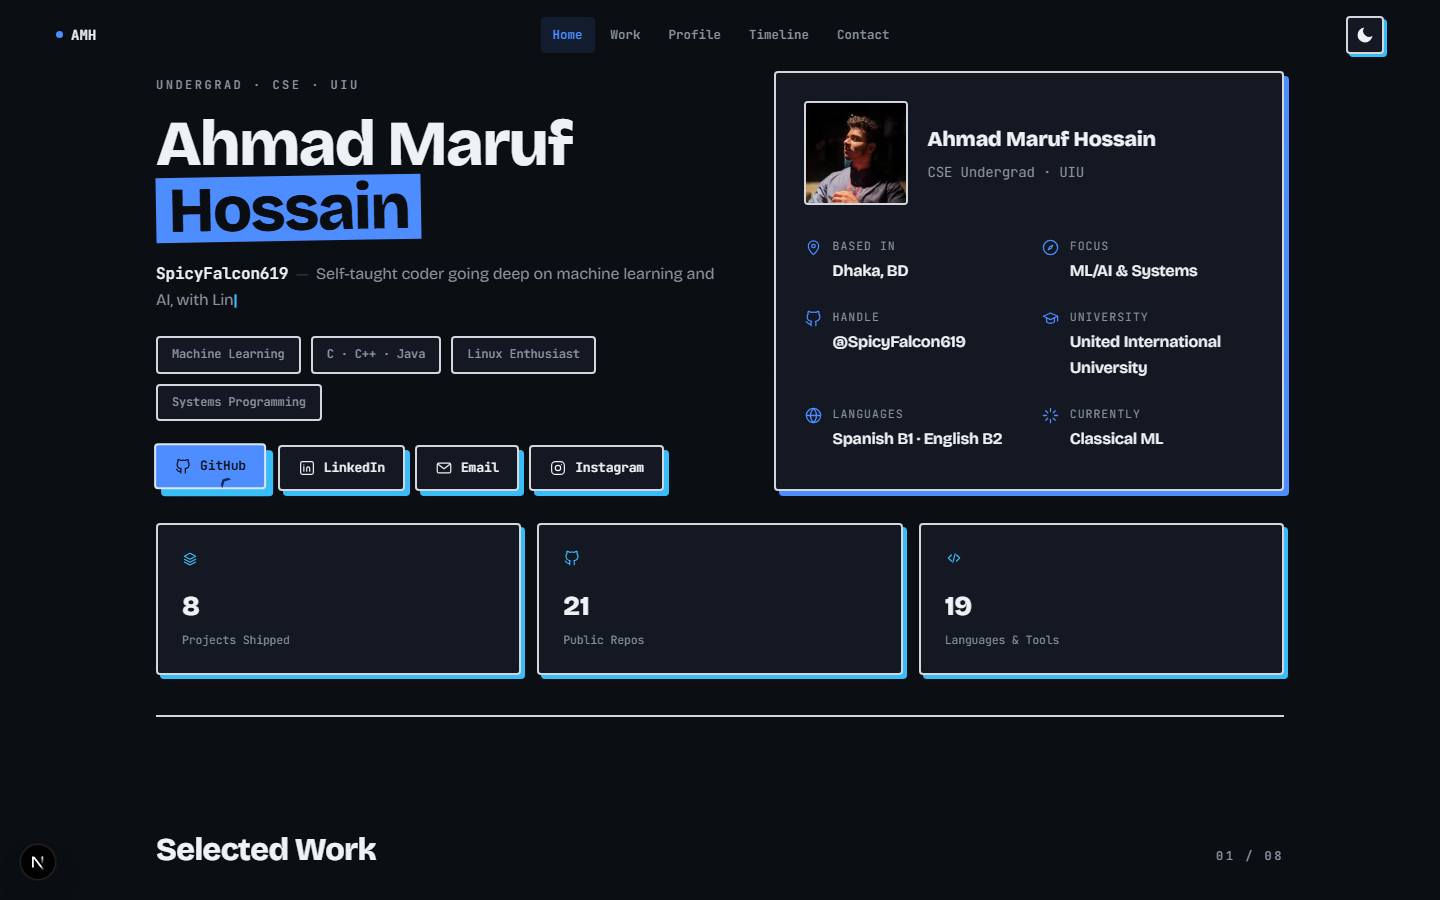
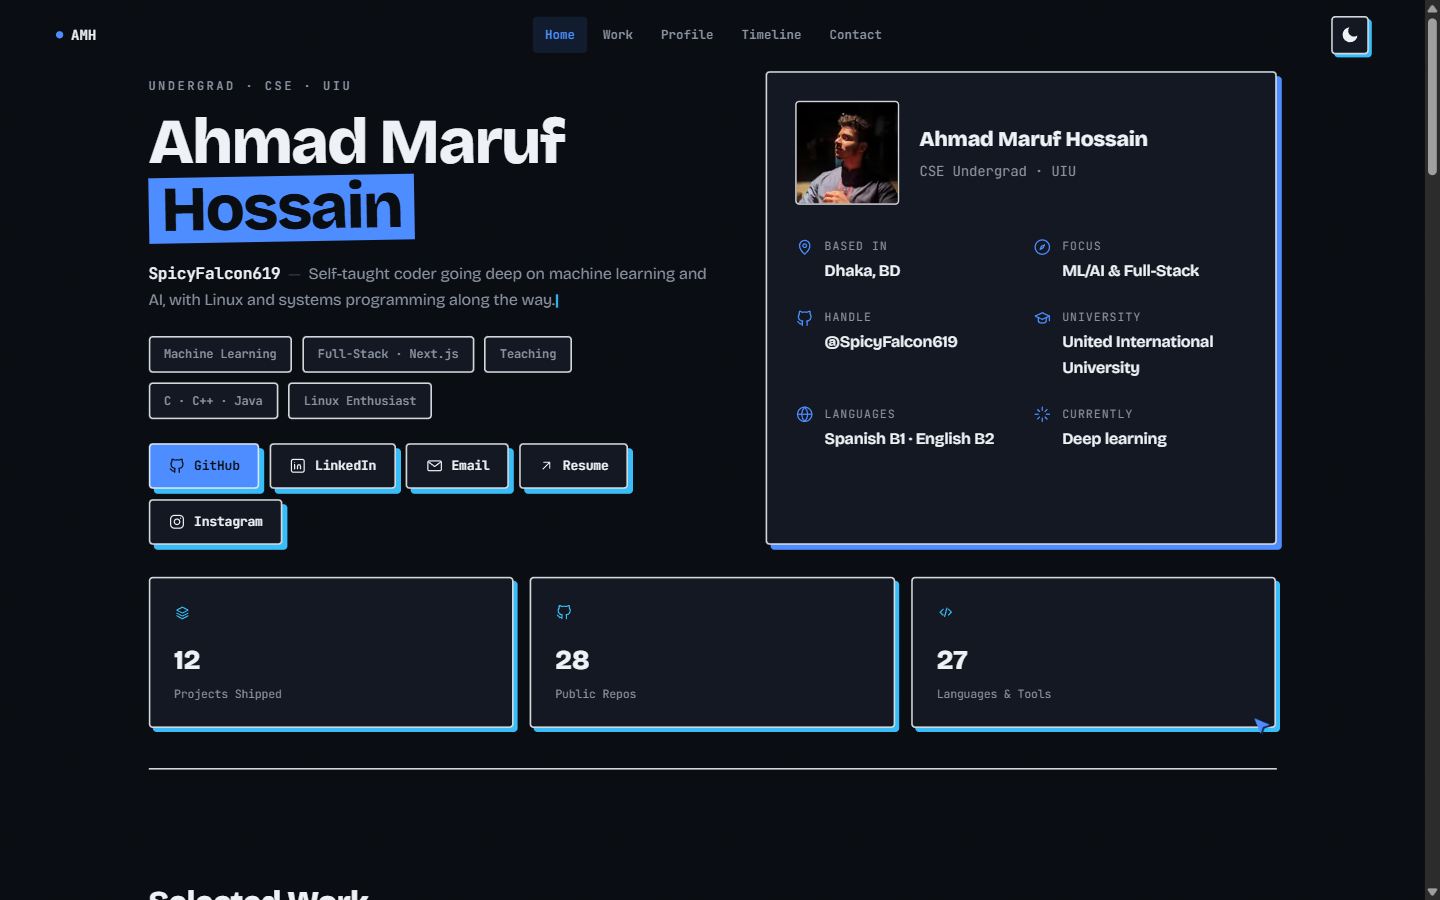
Put the CV in the top bar, mobile menu and contact section; rewrite the README; add the MIT licence

diff --git a/src/app/globals.css b/src/app/globals.css
@@ -211,6 +211,15 @@ section:not(:first-of-type)::before {
 @media (max-width: 760px) { .topbar-nav { display: none; } }
 
 .topbar-right { display: flex; align-items: center; gap: 10px; }
+.topbar-resume {
+  display: inline-flex; align-items: center; gap: 6px; text-decoration: none;
+  font-family: var(--font-mono); font-size: 12.5px; font-weight: 700; color: var(--fg);
+  padding: 7px 12px; border: 2px solid var(--fg); border-radius: var(--radius);
+  box-shadow: 3px 3px 0 var(--accent); transition: transform 0.15s ease, box-shadow 0.15s ease;
+}
+.topbar-resume:hover { transform: translate(-1px, -1px); box-shadow: 4px 4px 0 var(--accent); }
+.topbar-resume:active { transform: translate(2px, 2px); box-shadow: 1px 1px 0 var(--accent); }
+@media (max-width: 760px) { .topbar-resume { display: none; } }
 
 .topbar-burger {
   display: none;
@@ -240,6 +249,7 @@ section:not(:first-of-type)::before {
   color: var(--muted); padding: 12px 4px; border-bottom: 1px solid var(--glass-border);
 }
 .topbar-mobile-link:last-child { border-bottom: none; }
+a.topbar-mobile-link { color: var(--fg); text-decoration: none; }
 .topbar-mobile-link.active { color: var(--accent); }
 
 .theme-toggle-btn {

diff --git a/src/components/TopBar.tsx b/src/components/TopBar.tsx
@@ -2,7 +2,7 @@
 
 import { useEffect, useState } from 'react';
 import ThemeToggle from './ThemeToggle';
-import { MenuIcon, CloseIcon } from './Icons';
+import { MenuIcon, CloseIcon, ArrowUpRightIcon } from './Icons';
 
 const SECTIONS = [
   { id: 'hero', label: 'Home' },
@@ -66,6 +66,9 @@ export default function TopBar() {
       </nav>
 
       <div className="topbar-right">
+        <a className="topbar-resume" href="/resume.pdf" target="_blank" rel="noreferrer">
+          Resume <ArrowUpRightIcon size={13} />
+        </a>
         <ThemeToggle />
         <button
           className="topbar-burger"
@@ -88,6 +91,9 @@ export default function TopBar() {
               {s.label}
             </button>
           ))}
+          <a className="topbar-mobile-link" href="/resume.pdf" target="_blank" rel="noreferrer">
+            Resume (PDF) &#8599;
+          </a>
         </nav>
       )}
     </header>

diff --git a/src/components/ContactCTA.tsx b/src/components/ContactCTA.tsx
@@ -2,7 +2,7 @@
 
 import ScrollReveal from './ScrollReveal';
 import MagneticButton from './MagneticButton';
-import { GitHubIcon, LinkedInIcon, InstagramIcon, MailIcon } from './Icons';
+import { GitHubIcon, LinkedInIcon, InstagramIcon, MailIcon, ArrowUpRightIcon } from './Icons';
 
 export default function ContactCTA() {
   return (
@@ -18,6 +18,11 @@ export default function ContactCTA() {
           <MagneticButton>
             <a className="btn-solid" href="mailto:a.marufhossain619@gmail.com">
               <MailIcon /> a.marufhossain619@gmail.com
+            </a>
+          </MagneticButton>
+          <MagneticButton>
+            <a className="btn-outline" href="/resume.pdf" target="_blank" rel="noreferrer">
+              <ArrowUpRightIcon /> Download my CV (PDF)
             </a>
           </MagneticButton>
           <div className="contact-icon-row">

diff --git a/README.md b/README.md
@@ -1,94 +1,79 @@
-# Ahmad Maruf Hossain — Portfolio
+# Ahmad Maruf Hossain: Portfolio
 
-Personal portfolio for **SpicyFalcon619** — a CSE undergrad at United International University going deep on machine learning and AI, with systems programming and Linux along the way. Built as a neo-brutalist single-page site: solid panels, hard offset shadows, sharp corners, real GitHub data — no stock templates, no placeholder content.
+The personal portfolio of **Ahmad Maruf Hossain (SpicyFalcon619)**: a CSE undergraduate at United International University, Undergraduate Assistant for the Database Management System Lab, and builder of Nestly, the Field Guides and Drawer 378.
 
-**Live:** [spicyfalcon-portfolio.vercel.app](https://spicyfalcon-portfolio.vercel.app)
+**[spicyfalcon-portfolio.vercel.app](https://spicyfalcon-portfolio.vercel.app)** · [Résumé (PDF)](https://spicyfalcon-portfolio.vercel.app/resume.pdf) · [Desktop-style version](https://spicyfalcon-os.vercel.app)
 
-![Preview](public/assets/preview.png)
+![The portfolio's hero: name, profile card, live GitHub stats and links](public/assets/preview.png)
 
----
+## What's on the site
 
-## Tech Stack
+| Section | Contents |
+|---|---|
+| **Home** | Name, focus, links (GitHub, LinkedIn, email, résumé) and a profile card with live GitHub numbers |
+| **Selected Work** | Twelve projects in an index: pick one to read what it does, its stack, and its live link or repository |
+| **Profile** | About, highlights, the full tech stack, and a GitHub contribution heatmap built from real data |
+| **Timeline** | Milestones: the UGA role, competitions, education |
+| **Contact** | Email, a contact form, social links and the CV download |
 
-* **Framework**: Next.js 15 (App Router), React 19, TypeScript
-* **Styling**: Plain CSS with custom properties for theming — no utility framework
-* **Animation**: Framer Motion, `react-type-animation`
-* **Theming**: `next-themes` (dark/light, class-based)
-* **Analytics**: Vercel Analytics + Speed Insights
-* **Deployment**: Vercel
+## Design decisions
 
-## What Makes This Different
+- **Neo-brutalist, not templated.** Solid panels, 2 px borders, hard offset shadows and sharp corners. Glassmorphism, bento grids and particle backgrounds were tried and dropped because they looked generic.
+- **Real data only.** [`src/lib/github.ts`](src/lib/github.ts) reads public repository stats from the GitHub REST API and the contribution calendar from GitHub's own page, then draws the heatmap as a plain CSS grid, refreshed hourly. Every project links to a real repository or live deployment.
+- **The CV is one click away everywhere.** A Résumé button in the top bar, in the mobile menu, in the hero and in Contact. The public PDF leaves out the phone number.
+- **Built for every screen.** The top bar folds into a slide-down menu under 760 px; the custom cursor switches itself off on touch devices.
+- **Light and dark themes**, class-based, with no flash on load.
 
-* **Real GitHub data, not placeholders** — [`src/lib/github.ts`](src/lib/github.ts) fetches live public-repo stats from the GitHub REST API and scrapes the actual contribution calendar HTML from `github.com/users/{user}/contributions`, then renders it as a self-owned CSS grid (no third-party chart embeds).
-* **8 real, linked projects** — every entry in Selected Work links to an actual repo or live deployment, not a tutorial clone.
-* **Pure neo-brutalism** — solid panel backgrounds, 2px borders, hard (no-blur) offset shadows, minimal border-radius, and project rows styled as literal pressable buttons.
-* **Minimal custom cursor** — a small brutalist arrow with a hard offset shadow replaces the native pointer everywhere, including over text; automatically disabled on touch devices.
-* **No glassmorphism, no generic bento grids, no background particle effects** — deliberately avoided after early iterations read as generic/AI-templated.
-* **Mobile-first nav** — the sticky top bar collapses into a slide-down menu below 760px instead of just disappearing.
+## Tech stack
 
-## Project Structure
+| | |
+|---|---|
+| Framework | Next.js 15 (App Router), React 19, TypeScript |
+| Styling | Plain CSS with custom properties; no utility framework |
+| Motion | Framer Motion, `react-type-animation` |
+| Fonts | Bricolage Grotesque and JetBrains Mono via `next/font` |
+| Theming | `next-themes` |
+| Data | GitHub REST API, revalidated hourly |
+| Analytics | Vercel Analytics and Speed Insights |
+| Hosting | Vercel, deployed on every push to `main` |
 
-```
-my-portfolio/
-├── public/
-│   └── assets/            # avatar, favicons, preview screenshot
-├── src/
-│   ├── app/
-│   │   ├── globals.css    # design tokens + all styling
-│   │   ├── layout.tsx     # fonts, theme provider, analytics
-│   │   └── page.tsx       # fetches GitHub data, composes sections
-│   ├── components/
-│   │   ├── TopBar.tsx          # sticky nav + mobile menu
-│   │   ├── Hero.tsx             # name, tagline, profile card, stats
-│   │   ├── ProjectIndex.tsx     # Selected Work — index + detail view
-│   │   ├── InfoPanels.tsx       # About, Tech Stack, GitHub activity
-│   │   ├── GitHubHeatmap.tsx    # renders real contribution data
-│   │   ├── Timeline.tsx         # education + achievements
-│   │   ├── ContactCTA.tsx       # contact form + socials
-│   │   ├── Icons.tsx            # custom SVG icon set
-│   │   ├── ThemeToggle.tsx
-│   │   ├── ScrollReveal.tsx
-│   │   ├── MagneticButton.tsx
-│   │   ├── CustomCursor.tsx
-│   │   └── ClientEffects.tsx   # mounts client-only effects in layout.tsx
-│   └── lib/
-│       └── github.ts      # GitHub REST fetch + contribution scraper
-├── next.config.ts
-├── package.json
-└── tsconfig.json
-```
-
-## Getting Started
-
-### Prerequisites
-
-* Node.js >= 18
-* npm
-
-### Installation
+## Run it locally
 
 ```bash
 npm install
-npm run dev
+npm run dev        # http://localhost:3000
+npm run build && npm start
 ```
 
-Open [http://localhost:3000](http://localhost:3000) to see it live locally.
+Node.js 18 or newer. No environment variables are needed; GitHub data comes from public endpoints.
 
-### Build for Production
+## Project structure
 
-```bash
-npm run build
-npm start
+```text
+src/
+  app/
+    layout.tsx         fonts, theme provider, metadata, analytics
+    page.tsx           fetches GitHub data and composes the sections
+    globals.css        design tokens and all styling
+  components/
+    TopBar.tsx         sticky navigation, résumé link, mobile menu
+    Hero.tsx           name, tagline, profile card, stats
+    ProjectIndex.tsx   Selected Work: the project list and detail view
+    InfoPanels.tsx     about, highlights, tech stack, GitHub activity
+    GitHubHeatmap.tsx  contribution calendar from real data
+    Timeline.tsx       milestones
+    ContactCTA.tsx     contact form, socials, CV download
+  lib/
+    github.ts          GitHub REST fetch and contribution scraper
+public/
+  resume.pdf           the public CV
+  assets/              avatar, icons, preview image
 ```
 
-## Deployment
+## Updating the content
 
-Optimized for **Vercel** — connect the GitHub repo and it auto-deploys on every push to `main`.
-
-## Roadmap
-
-See [NEXT_STEPS.md](NEXT_STEPS.md) for the open ideas backlog (OG image, resume link, deeper case studies, perf pass).
+Projects live in `PROJECTS` in [`src/components/ProjectIndex.tsx`](src/components/ProjectIndex.tsx), highlights and the tech list in [`InfoPanels.tsx`](src/components/InfoPanels.tsx), and milestones in [`Timeline.tsx`](src/components/Timeline.tsx). To update the CV, replace `public/resume.pdf`.
 
 ## License
 
-Open source under the MIT License.
+The code is [MIT licensed](LICENSE). The text, photographs and CV are personal and not covered by the licence.
